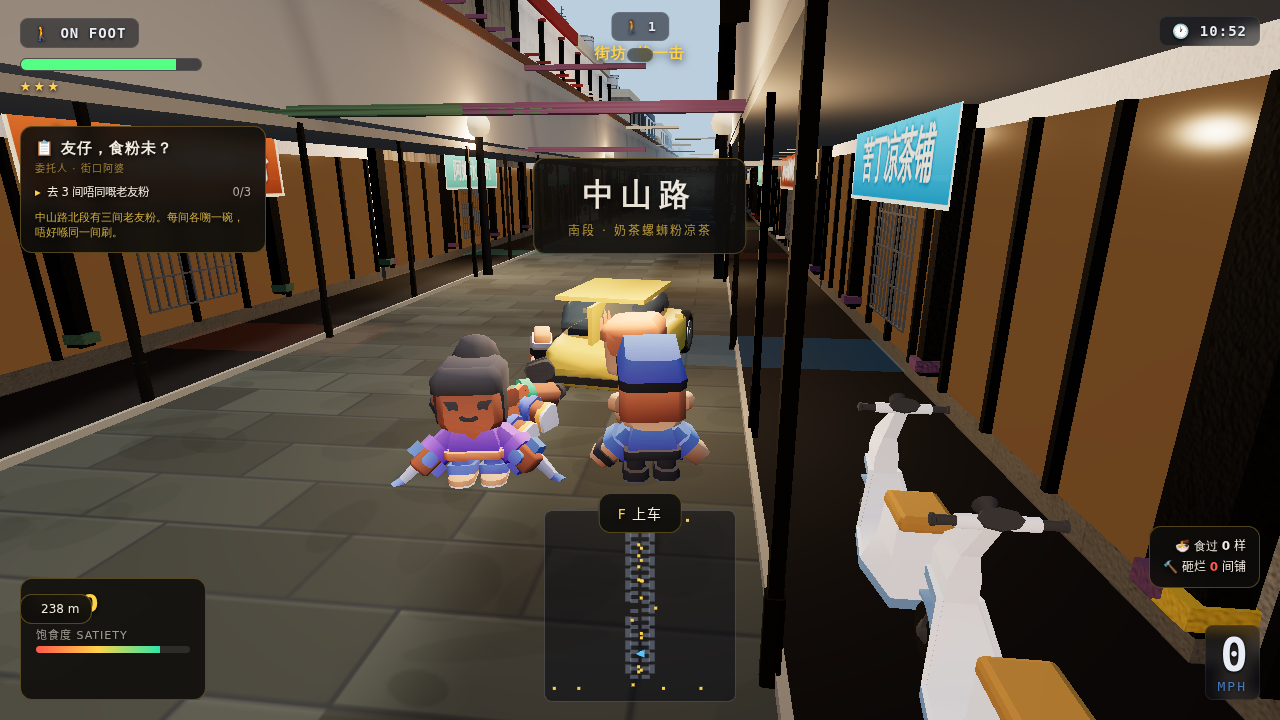
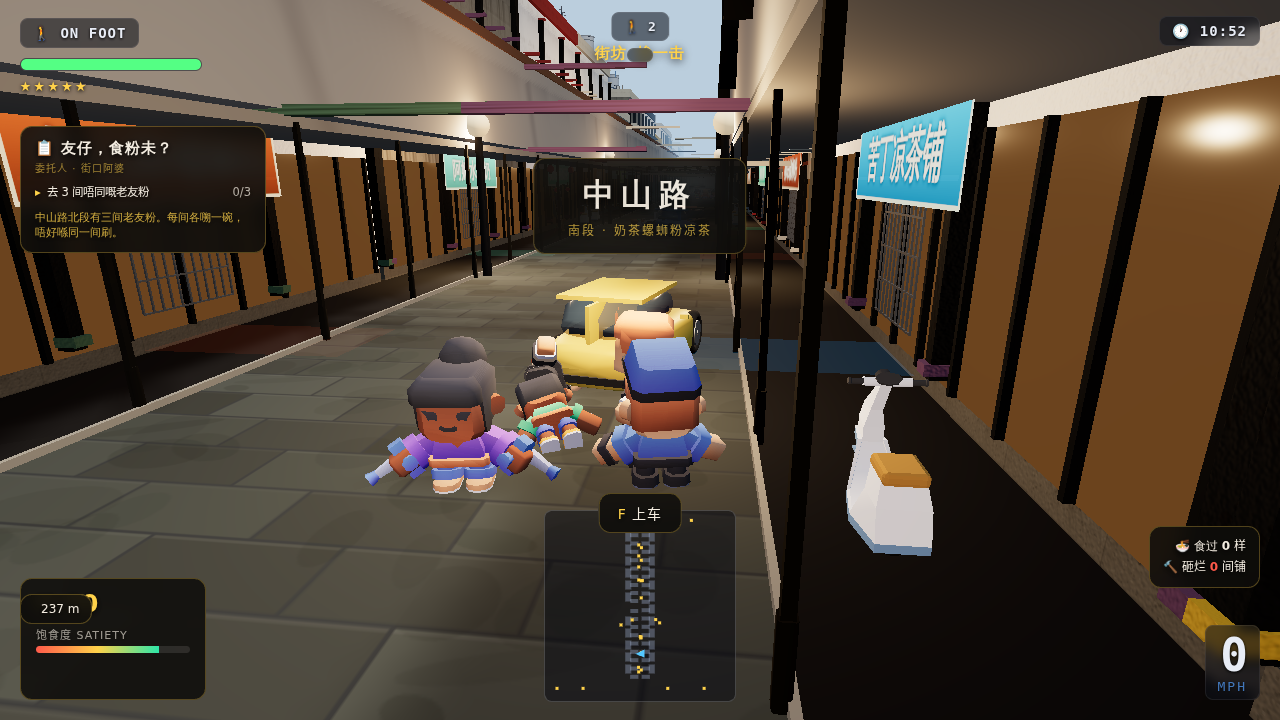
Park the e-bikes between the columns, and carry people down the back
The e-bikes were parked at the shopfront, and the colonnade stands a
column every 4.45 m along the kerb — a scooter is 1.85 m long, so parked
at the shop it straddled one with its handlebars inside it. They now park
in the bay between two columns.

The carry was slung across the shoulders at full size, and a 1.64 m chibi
carried flat puts their boots inside the carrier's neck. The carried
person is three-quarter size now and slung down the back, head over the
shoulder and legs behind, and they no longer take part in the crowd's
separation — they are on your shoulder by definition.

Measured in the running game, not guessed: the two wheel contact points
of a parked e-bike are both at y = 0.17, on the raised pavement, and the
crowd's closest pair during a fight is 1.72 m apart with the nearest
person 1.45 m from the player. The separation works; the pictures were
taken before it had settled, so the shots now wait.

tsc clean, 229 tests, build clean.

diff --git a/src/nanning/scenery.ts b/src/nanning/scenery.ts
@@ -561,20 +561,29 @@ async function mountPolyEbikes(scene: THREE.Scene, city: NanningCity): Promise<v
   // Under the arcade, clear of the columns, on the raised pavement.
   const PARK_X = STREET_HALF + 0.95;
   const PARK_Y = ARCADE_RAISE;
+  // The colonnade stands a column every 4.45 m along the kerb, and a scooter
+  // is 1.85 m long. Parked at the shopfront it straddles one, with its
+  // handlebars inside the column — so park it in the bay between two.
+  const COL_PITCH = 4.45;
+  const COL_FIRST = STREET_Z0 + 1.2;
+  const bay = (z: number): number => {
+    const k = Math.round((z - COL_FIRST - COL_PITCH / 2) / COL_PITCH);
+    return COL_FIRST + COL_PITCH / 2 + k * COL_PITCH;
+  };
   for (const unit of city.shops) {
     if (!WARM.has(unit.def.id) || unit.nightOnly) continue;
     // The same side as the shop: nx points from the shop into the street, so
     // -nx is the near kerb.
     const x = -unit.nx * PARK_X;
-    spots.push({ x, z: unit.z - 1.1, heading, y: PARK_Y });
-    spots.push({ x, z: unit.z + 1.1, heading, y: PARK_Y });
+    spots.push({ x, z: bay(unit.z - 1.1), heading, y: PARK_Y });
+    spots.push({ x, z: bay(unit.z + 1.1), heading, y: PARK_Y });
   }
   // Extra pairs along both sides so mid-street framing is not empty.
   for (const side of [-1, 1] as const) {
     const x = side * PARK_X;
     for (let z = STREET_Z0 + 25; z < STREET_Z1 - 25; z += 45) {
-      spots.push({ x, z: z - 0.9, heading, y: PARK_Y });
-      spots.push({ x, z: z + 0.9, heading, y: PARK_Y });
+      spots.push({ x, z: bay(z - 0.9), heading, y: PARK_Y });
+      spots.push({ x, z: bay(z + 0.9), heading, y: PARK_Y });
     }
   }
   await addPolyEbikes(scene, spots);

diff --git a/src/nanning/crowd.ts b/src/nanning/crowd.ts
@@ -332,6 +332,7 @@ export class Crowd {
     if (!t || t.combat === 'carried' || t.combat === 'down') return false;
     t.combat = 'carried';
     t.vx = t.vz = t.vy = 0;
+    t.group.scale.setScalar(0.72);
     t.y = 0;
     t.hostile = false;
     t.t = 0;
@@ -463,9 +464,14 @@ export class Crowd {
       const fz = -Math.sin(heading);
       const rx = -fz;
       const rz = fx;
-      t.group.position.set(px - rx * 0.26 - fx * 0.1, 1.18, pz - rz * 0.26 - fz * 0.1);
-      // Draped: the body lies across the shoulders, head back.
-      t.group.rotation.set(0, heading, -1.15);
+      // Smaller, and behind the shoulder rather than on top of it: a full
+      // size chibi is 1.64 m, so carried flat his boots end up buried in the
+      // carrier's neck. At three-quarter size, slung down the back, the
+      // boots hang behind the carrier and the head clears the shoulder.
+      t.group.scale.setScalar(0.72);
+      t.group.position.set(px - rx * 0.3 - fx * 0.42, 1.24, pz - rz * 0.3 - fz * 0.42);
+      // Draped: the body lies down the back, head over the far shoulder.
+      t.group.rotation.set(0.35, heading, -0.5);
       t.x = t.group.position.x;
       t.z = t.group.position.z;
       return;

diff --git a/src/nanning/crowd.test.ts b/src/nanning/crowd.test.ts
@@ -70,13 +70,14 @@ describe('Crowd — street rules', () => {
     const t = crowd.talkers[0];
     crowd.targets()[0].grab!();
     crowd.update(1 / 30, 5, 7, 0, 0, 0);
-    // Facing +X with heading 0. The person goes over the shoulder: beside
-    // and just behind the carrier, at head height, and the body is tipped
-    // across them rather than held out in front like a parcel.
-    expect(t.group.position.x).toBeGreaterThan(4.7);
-    expect(t.group.position.x).toBeLessThan(5.1);
-    expect(t.group.position.z).toBeLessThan(6.9);
-    expect(t.group.position.y).toBeCloseTo(1.18, 2);
-    expect(t.group.rotation.z).toBeLessThan(-0.9);
+    // Facing +X with heading 0. The person goes over the shoulder: behind
+    // the carrier, down their back, and at three-quarter size so their boots
+    // hang behind instead of burying themselves in the carrier's neck.
+    expect(t.group.position.x).toBeGreaterThan(4.4);
+    expect(t.group.position.x).toBeLessThan(4.75);
+    expect(t.group.position.z).toBeLessThan(6.85);
+    expect(t.group.position.y).toBeCloseTo(1.24, 2);
+    expect(t.group.scale.x).toBeCloseTo(0.72, 2);
+    expect(t.group.rotation.z).toBeLessThan(-0.4);
   });
 });
